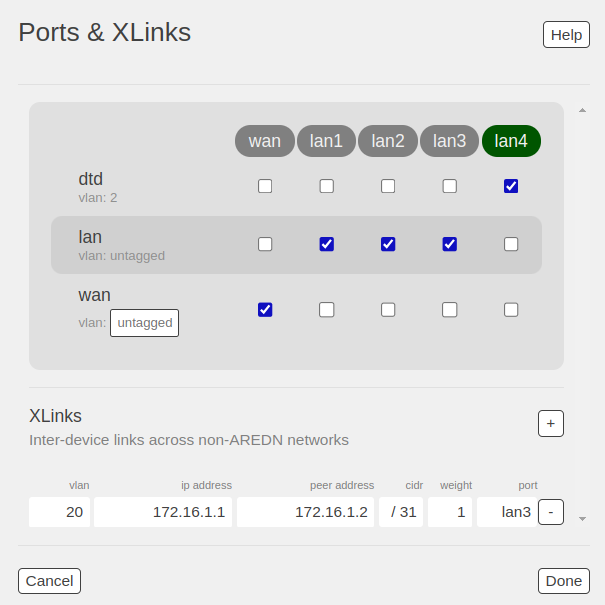
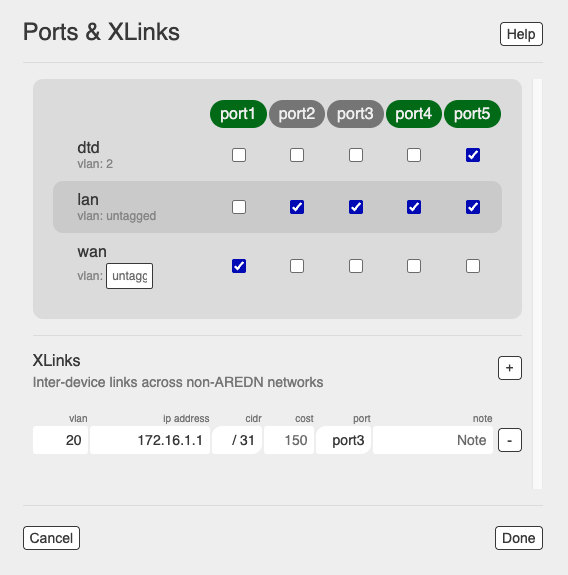
update xlink pages

diff --git a/arednHow-toGuides/xlinks.rst b/arednHow-toGuides/xlinks.rst
@@ -15,19 +15,17 @@ Xlinks
 Configure the AREDN® nodes at both ends
 ---------------------------------------
 
-You can use either a *Mikrotik hAP ac2* or *ac3* as the AREDN® device on each end of the xlink. Navigate to the **Ethernet Ports & Xlinks** page of the node on one side of the link. To add an xlink click the *plus* icon, enter an unused VLAN number for the link, an IP address for the near-side device, an IP address for the far-side device, a weighting factor, the available port to which the near-side device is connected on your node, and the `CIDR <https://en.wikipedia.org/wiki/Classless_Inter-Domain_Routing>`_ netmask. The *Weight* will be used by the routing protocol to determine the best route for AREDN® traffic.
+In this example a *Mikrotik hAP ac2* was used as the AREDN® device on each end of the xlink. Navigate to the **Ethernet Ports & Xlinks** page of the node on one side of the link. To add an xlink click the *plus* icon, enter an unused VLAN number for the link, the IP address for the link, the `CIDR <https://en.wikipedia.org/wiki/Classless_Inter-Domain_Routing>`_ netmask, a weighting factor, the port to which the near-side device is connected on your node, and . The *cost* will be used by the routing protocol to determine the best route for AREDN® traffic. You may also add a note to describe the link or provide contact information.
 
 .. image:: ../arednGettingStarted/_images/admin-ports-xlinks.png
   :alt: Ethernet Ports & Xlinks
   :align: center
 
-In this example VLAN ``20`` is not in use anywhere else on the network. We assigned an *IP Address* of ``172.16.1.1`` for the near-side node, and we assigned ``172.16.1.2`` as the *Peer Address* for the node on the other side of the link. The xlink knows nothing about the details or configuration of the intermediate transport devices. The *Weight* is set to ``1`` which is the same weight as would be used by a tunnel connection, but this can be increased if you want the cross-link to be chosen at a lower priority for routing traffic on the mesh. *Port* ``lan3`` was chosen because it is an open port on this node. After entering these values, click ``Done`` and ``Commit`` your changes. Now you can cable your near-side transport device to port 3 on your AREDN® node.
+In this example VLAN ``20`` is not in use anywhere else on the network. We assigned an *IP Address* of ``172.16.1.1`` with a netmask of /31. The xlink knows nothing about the details or configuration of the intermediate transport devices. The *cost* is set to ``150`` which is the same weight as would be used by a tunnel connection, but this can be increased if you want the cross-link to be chosen at a lower priority for routing traffic on the mesh. ``port3`` was chosen because it is an open port on this node. After entering these values, click ``Done`` and ``Commit`` your changes. Now you can cable your near-side transport device to port 3 on your AREDN® node.
 
 .. image:: _images/xlink.png
   :alt: xlink diagram
   :align: center
-
-Next, open the **Ethernet Ports & Xlinks** page on the node for the other side of the link. Set the *IP Address* for that node to ``172.16.1.2`` and the *Peer Address* to ``172.16.1.1``. The *Weight* is set to ``1`` and the *Port* is set to ``lan4`` because that is an open port on this node. After entering these values, click ``Done`` and ``Commit`` your changes. Now you can cable your far-side transport device to port 4 on that AREDN® node.
 
 Configure the intermediate transport link
 ----------------------------------------------

diff --git a/arednGettingStarted/node_admin.rst b/arednGettingStarted/node_admin.rst
@@ -833,9 +833,7 @@ Ports (if available)
   If you want to change a port's configuration, simply check or uncheck the settings desired on each port.
 
 Xlinks
-  A cross-link (xlink) allows your node to pass AREDN® traffic across non-AREDN® links. To add an xlink click the [+] icon, enter an unused VLAN number for the link. Enter the IP address of the near-side device, the IP address of the far-side device, the `CIDR <https://en.wikipedia.org/wiki/Classless_Inter-Domain_Routing>`_ netmask, and a weighting factor which will be used by the routing protocol to determine the best route for AREDN® traffic.
-
-  In the example above on a multiport device, you also enter the port to which the near-side device is connected on your node. If you want to remove an xlink, simply click the [-] icon on the right side of the row to remove it.
+  A cross-link (xlink) allows your node to pass AREDN® traffic across non-AREDN® links. To add an xlink click the [+] icon, enter an unused VLAN number for the link. Enter the IP address for the link, the `CIDR <https://en.wikipedia.org/wiki/Classless_Inter-Domain_Routing>`_ netmask, and a weighting factor which will be used by the routing protocol to determine the best route for AREDN® traffic. On a multiport device you also enter the port to which the near-side device is connected to your node. You may also add a note to describe the link or provide contact information. If you want to remove an xlink, simply click the [-] icon on the right side of the row to remove it.
 
 You can click the ``Cancel`` button to ignore any changes you made on this display. When you are finished with your changes, click the ``Done`` button. You will then be returned to your node's *admin* view where you will be able to ``Commit`` or ``Revert`` any changes.
 
